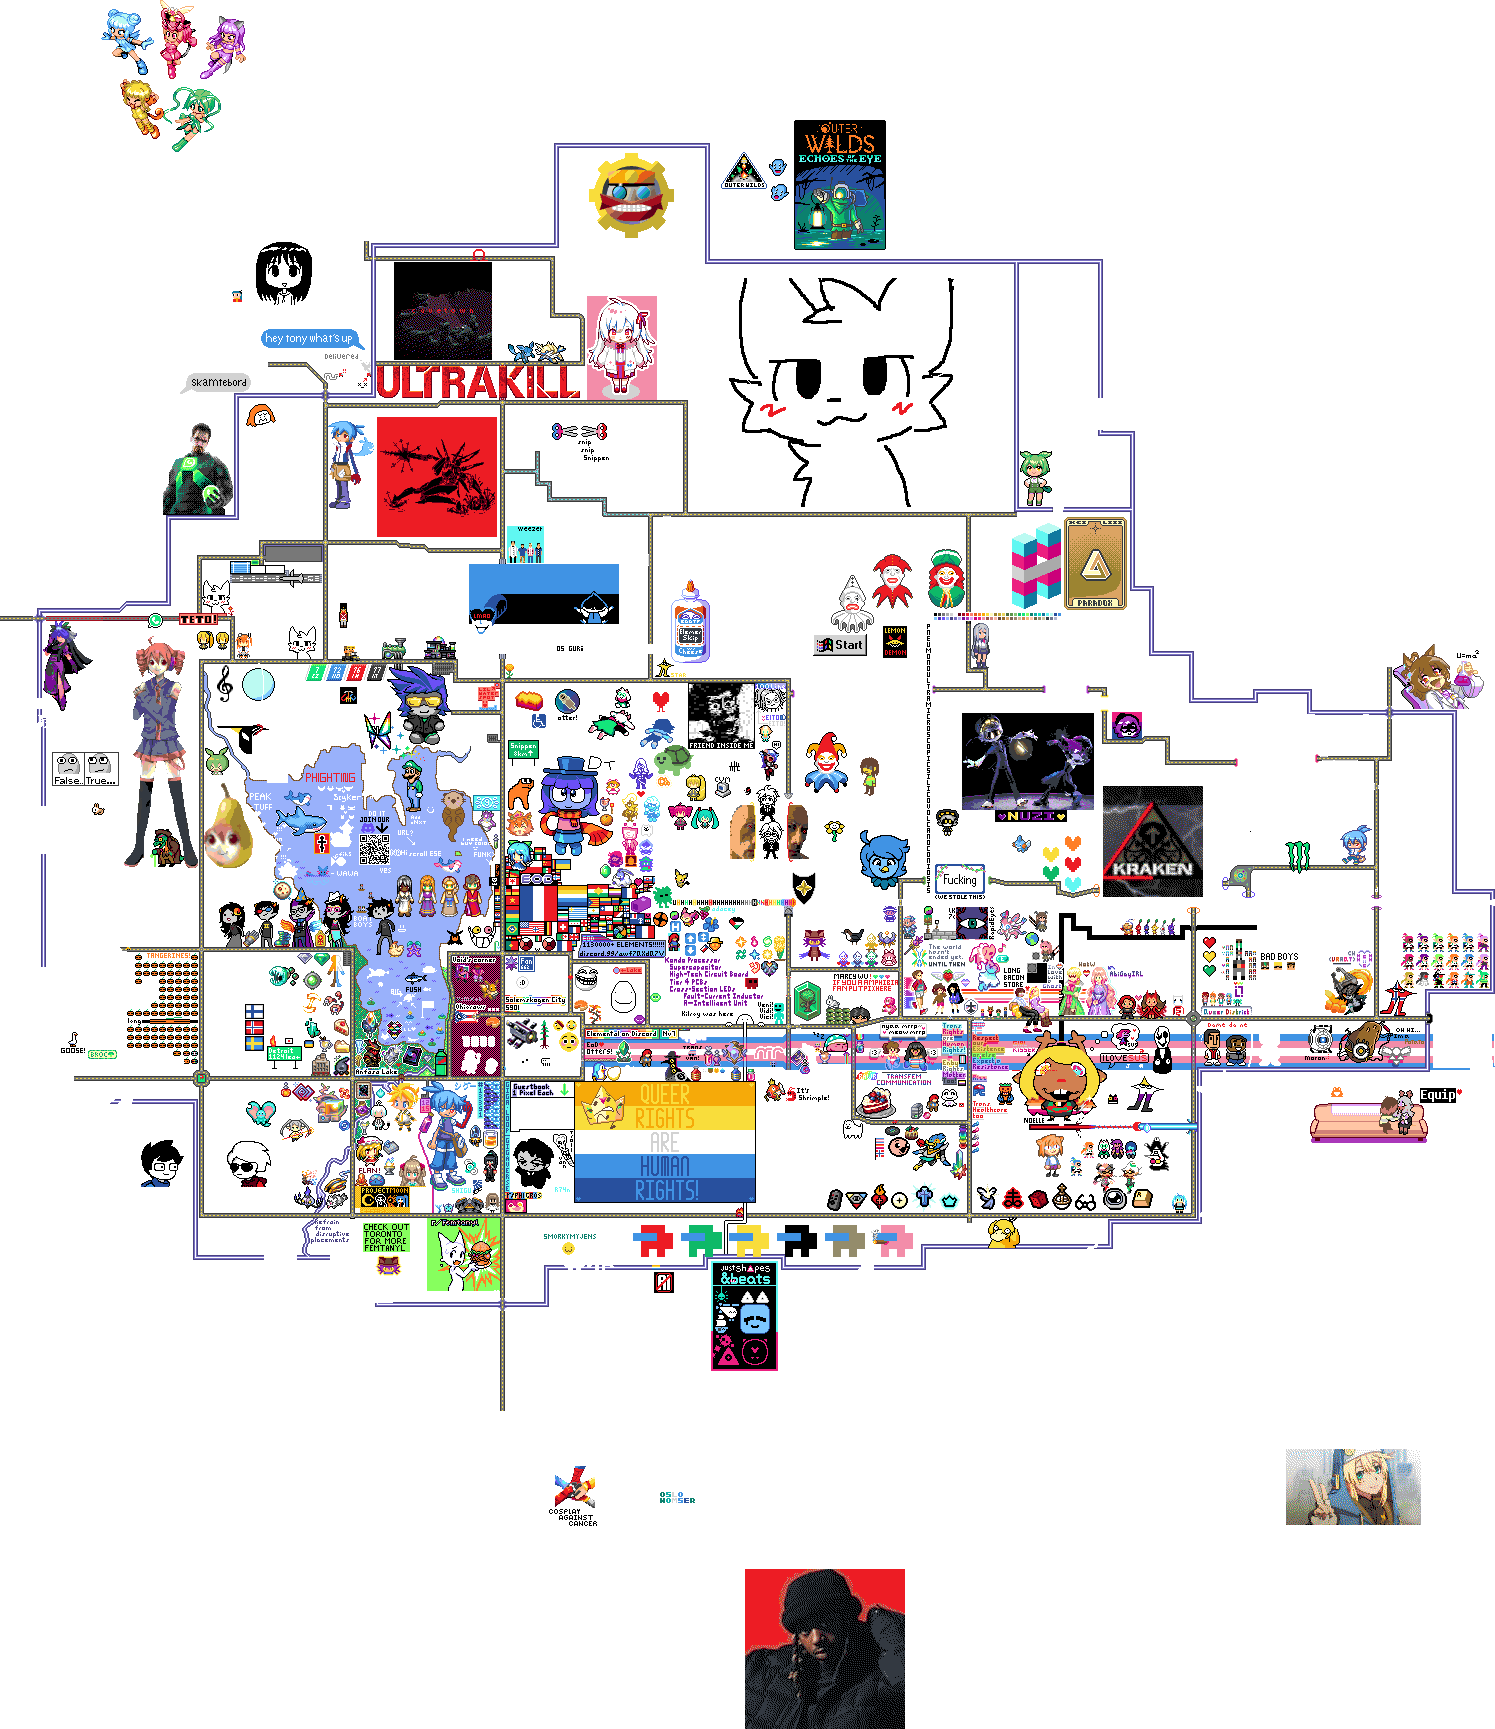
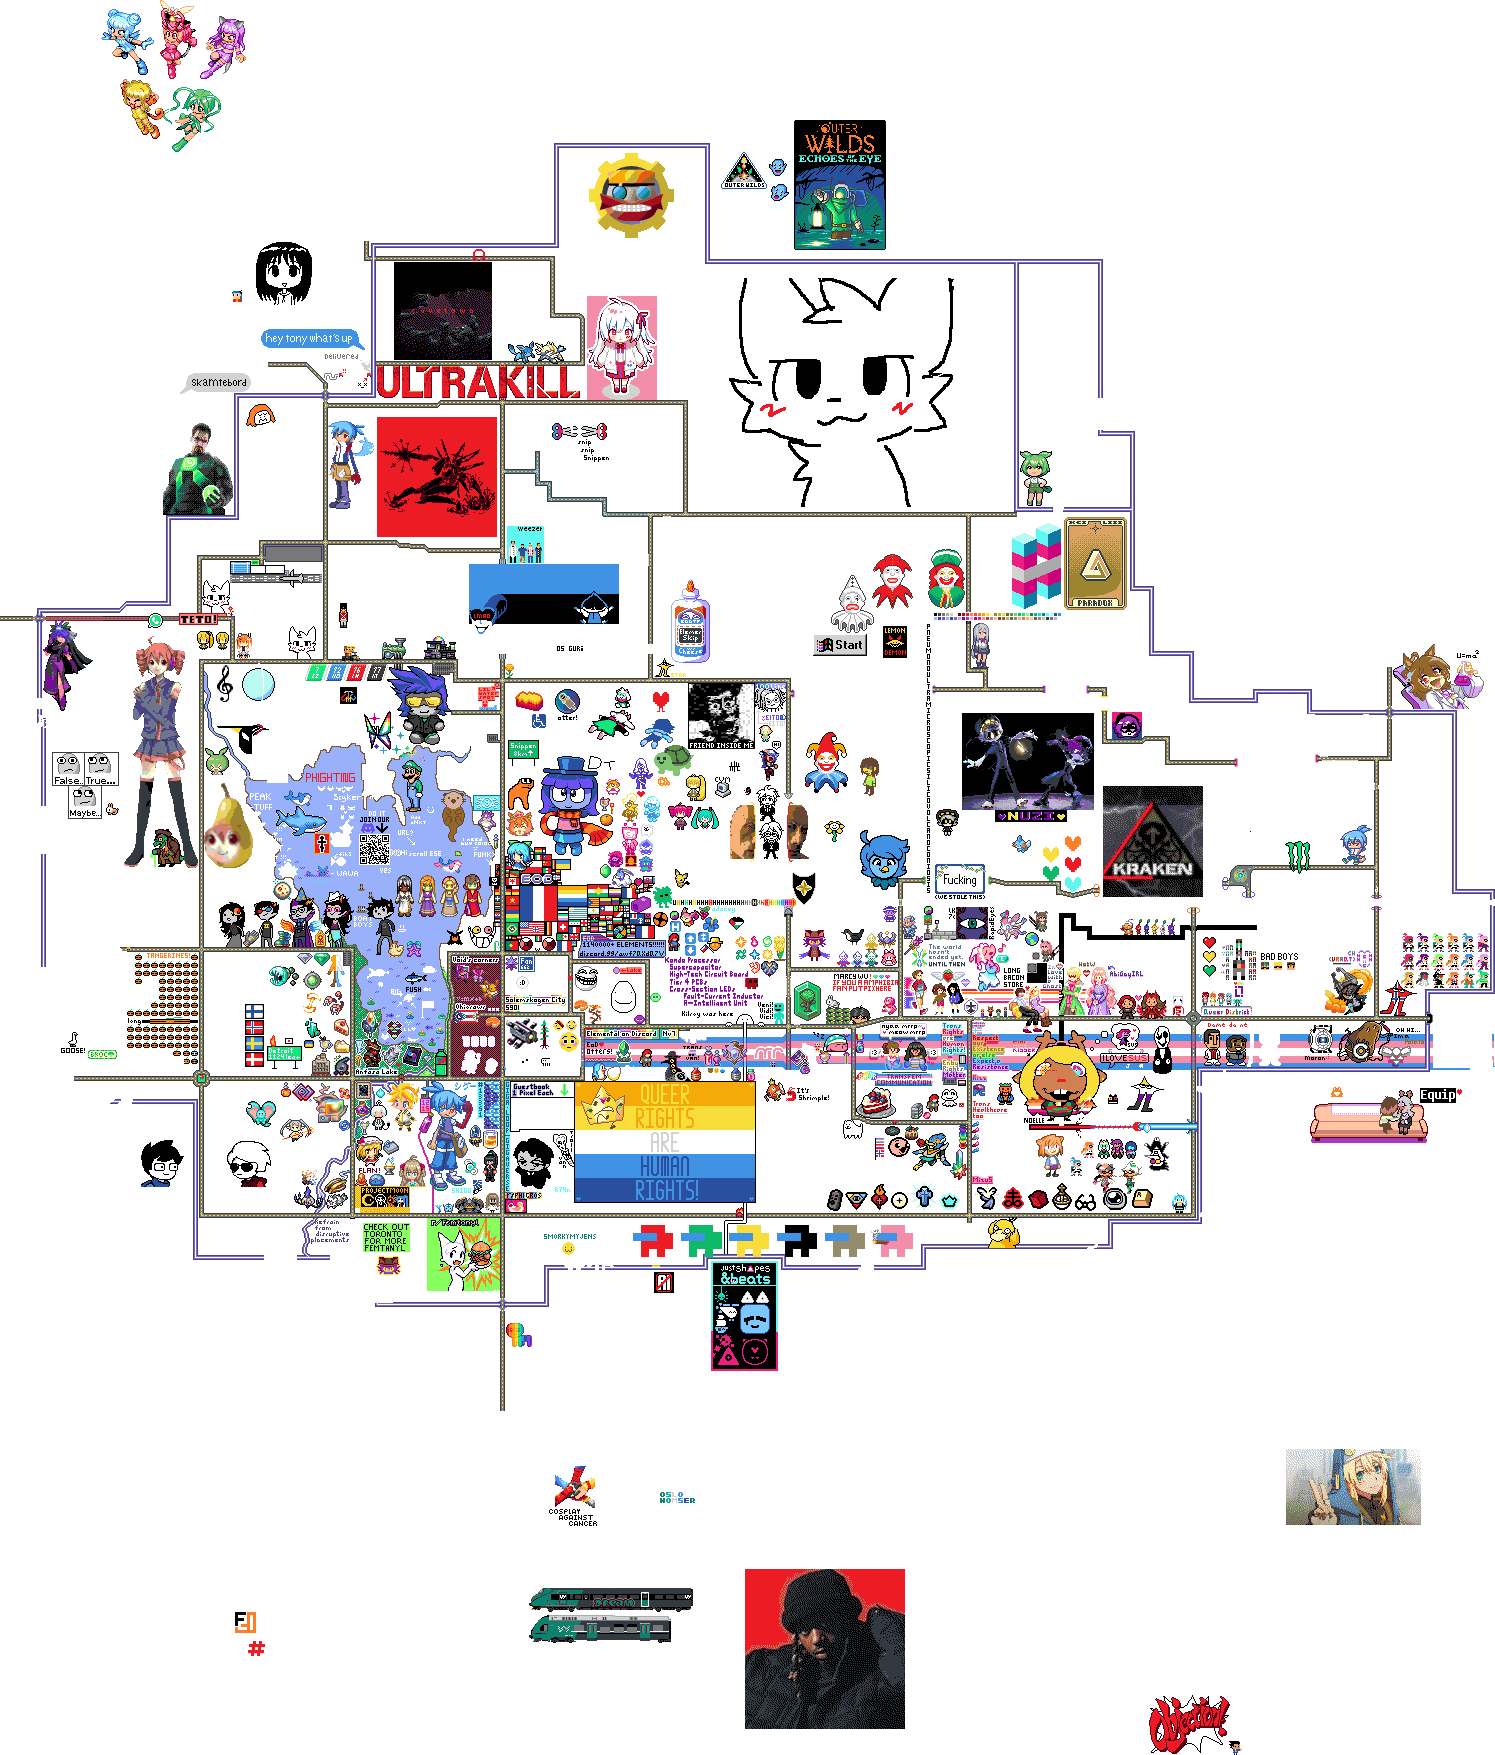
Sync entries

diff --git a/web/_js/config.js b/web/_js/config.js
@@ -16,7 +16,7 @@ window.pageTitle = pageTitle
 
 const canvasSize = {
 	x: 1495,
-	y: 1729
+	y: 1755
 }
 window.canvasSize = canvasSize
 

diff --git a/tools/seal.py b/tools/seal.py
@@ -8,7 +8,7 @@ from oneoff.calculate_polygon import pongon
 top_left_tile = [1084,594]
 bottom_right_tile = [1086,595]
 canvas_offset = [0,0]
-canvas_crop = [926,33,1495,1729] # the first two (left,top) affect template locations, the last two (right,bottom) are actual crops
+canvas_crop = [926,33,1495,1755] # the first two (left,top) affect template locations, the last two (right,bottom) are actual crops
 # editables end here
 
 template_regex = re.compile(r"top\/(\d+) (\d+)\/(\d+) (\d+) (.+)")
